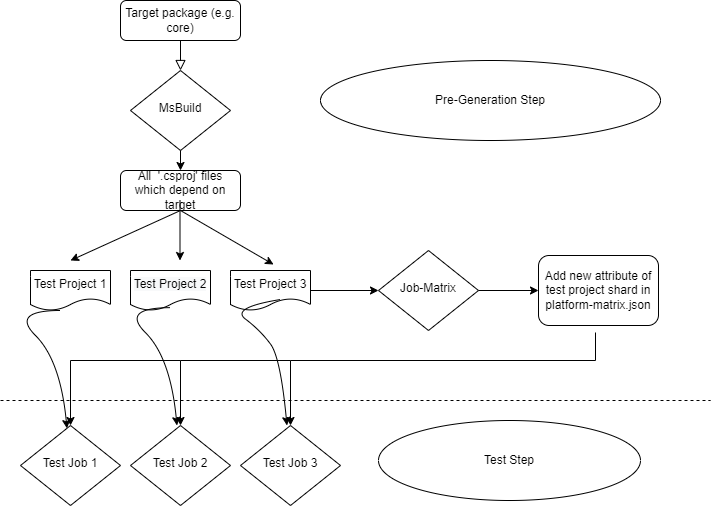
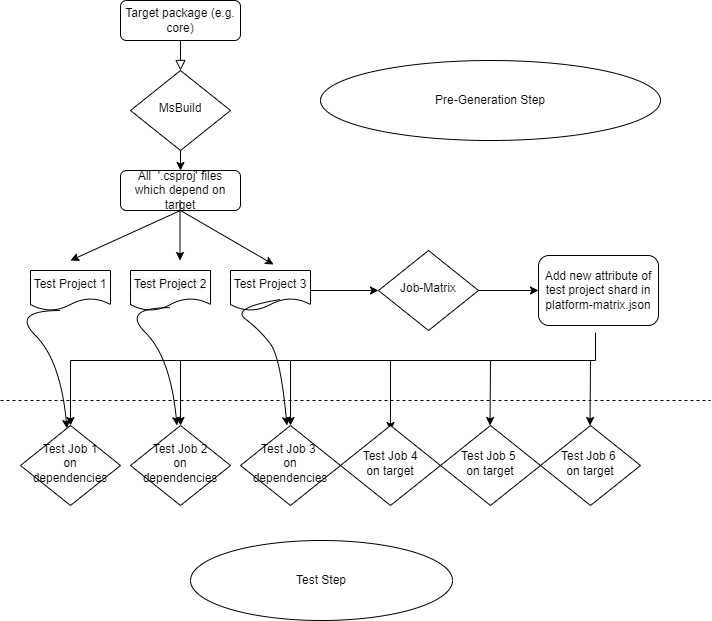
fix on readme

diff --git a/eng/scripts/splittestdependencies/README.md b/eng/scripts/splittestdependencies/README.md
@@ -1,12 +1,17 @@
 # Test dependency Splitting Strategy
 ## Problems
-Today, most of the Azure service SDKs implemented in our repo have a dependency on the core library. In order to guarantee the changes on core do not break other SDKs depend on it, our core PR validation pipeline currently runs all tests under `sdk` folder. As the onboarding packages keep growing, the test steps of pipeline usually take nearly an hour to finish. We expect the PR validation to finish as fast as possible, which can unblock the changes checked in to the repo. This is the motivation of the test splitting task.
+Today, most of the Azure SDKs implemented in our repo have a dependency on the core library. In order to guarantee the changes on core do not break the SDKs depend on it, our core PR validation pipeline currently runs all tests under `sdk` folder. As the onboarding packages keep growing, the test steps of pipeline usually take nearly an hour to finish. To achieve the purpose of speeding up the PR validation, we decided to move on to the test splitting task.
 
 ## Existing workflow
-Before we run the tests, we have a step which determine all testing environments (OS image, pool, .NET framework etc.). For each of the testing environment, we check which service triggers the pipeline. If it is service other that core, then we run the tests under the service only. If it is core library, then we will run all tests under `sdk` folder. There are more than 400 packages in total, even we execute them in parallel, it still takes long while to get them done. 
+Before we run the tests, we have a step to determine the testing matrix (OS image, pool, .NET framework etc.). For each of the testing environment, we check which is the service triggers the pipeline. If it is service other that core, then we run the tests under the service only. If it is core library, then we will run all tests under `sdk` folder. There are more than 400 packages in total as of today, so even we execute them in parallel, it still takes long while to get them done. 
 
 ## New workflow
-Previously, it is not necessary to run everything under `sdk`, because we definitely have some packages which do not depend on core. So, for the new design, we add a target in msbuild project which will fetch all `.csproj` files depends on the target package. We introduce this flexibility of taking target package as parameter because not only core has the needs of testing its providers, but also other services (e.g. KeyVault, Storage etc.). By giving the number of tests we want to run on each test job, we evenly distributes the test project files into different chunks and write them into project files. Then we write these newly generated project files back to `platform-matrix.json` as new attribute of the test matrix. After the `PreGeneration` step, then the test step will know how many project files they will execute on. We can also control on the maximum tests on each test job.
+In order to speed up the pipeline, we have to answer two questions here:
+
+1. Is it necessary to run all tests under `sdk`? Can we fetch the tests which have a dependency on core?
+1. Can we split the tests depend on core into different test jobs?
+
+To optimize the existing process, we first use the `MSBuild` to find all test `.csproj` files depend on target service. Then, we split these test projects (exclude the target service) into certain number of chunks (according to the input of how many tests we expect to run on each test job) and write them into separate project files. We will dynamically write the project files back as a new property to the matrix json which will use to determine the test job settings later on. By having the mutate matrix json, the test steps can execute their tests on small number of tests defined in project files respectively. We also have another set of test jobs which run the target service tests only. Though we double the size of test matrix, it saves nearly 80% of the time we spend on test jobs.
 
 Here is the workflow for better understanding:
 ![Workflow](assets/test-split-workflow.png)
@@ -19,7 +24,7 @@ To enable the split on your service, you can add the line below in `ci.yml` unde
 ```
 TestDependsOnDependency: ${service-name}
 ```
-To disable, just remove the above line, and we will run the tests on target service only.
+To disable, just remove the above line, and the corresponding pipeline will run the tests on target service only.
 
 ## Performance
 Here is the comparison:
